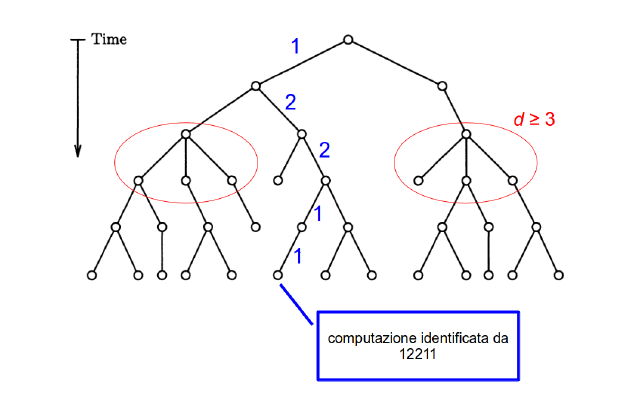
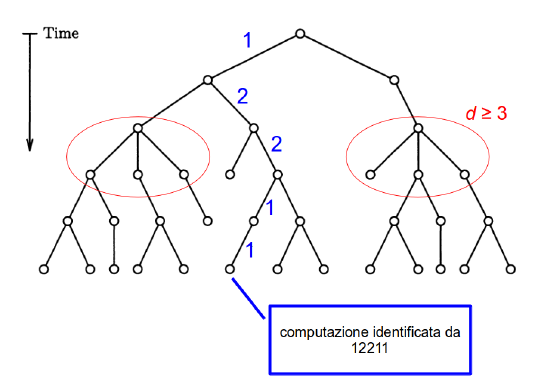
fixes

diff --git a/3-Tempo_e_spazio.tex b/3-Tempo_e_spazio.tex
@@ -65,6 +65,7 @@ $\co C = \{ \overline{L} : L \in C \}$
 
 
 \subsection{Teorema: il tempo é limitato inferiormente dall'input}
+\label{teorema:tempo_limitato_inferiormente_dall_input}
 {$f(n) = \Omega(n)$} \\
 O, equivalentemente: \\
 {$n = O(f(n))$}
@@ -74,6 +75,7 @@ Se la codifica dell'input é \textit{ragionevole}, allora la macchina di Turing 
 
 
 \subsection{Teorema: lo spazio é limitato superiormente dal tempo}
+\label{teorema:spazio_limitato_superiormente_dal_tempo}
 {$g(n) = O(f(n))$}
 \begin{proof}
 Supponiamo che una macchina $M$ a 1 nastro operi in tempo $f(n)$ e che a ogni passo scriva sul nastro e sposti la testina a destra. \\
@@ -83,103 +85,3 @@ Qualsiasi altra macchina che operi in tempo $f(n)$ avrá eseguito dei passi sovr
 \subsubsection{Corollario: $\TIME(f(n)) \subseteq \SPACE(f(n))$}
 \subsubsection{Corollario: $\P \subseteq \PSPACE$}
 Qualunque linguaggio che puó essere deciso in tempo $f(n)$ puó essere deciso anche in spazio $f(n)$.
-
-
-\subsection{Teorema: Terminazione delle MdT space bounded}
-Se una MdT $M$ opera in spazio $g(n)$, allora esiste una MdT $M'$ che opera in spazio $O(g(n))$ e termina per ogni input entro $O(c^{g(n)})$ passi.
-\footnote{Questo teorema presuppone il teorema dello speedup multinastro (\ref{teorema:speedup_multinastro})}
-\begin{proof}
-$M' = (M_1, M_2)$ é la concatenazione di due macchine, e utilizza un nastro aggiuntivo. \\
-$M_1$ scrive sul nastro aggiuntivo una stringa che codifica la configurazione di $M$, fatta in questo modo: \\
-\[[\triangleright, q, \sqcap, \dots, \sqcap, 1, \dots, 1]\]
-\begin{itemize}
-	\item Il primo simbolo codifica lo stato corrente della macchina $M$ utilizzando $|Q|$ nuovi simboli.
-	\item I successivi $g(n)$ simboli $\sqcap$ codificano il contenuto del nastro di $M$, utilizzando i $|\Sigma|$ simboli dell'alfabeto di $M$.
-	\item Gli ultimi $g(n)$ simboli codificano la posizione della testina di $M$, rappresentata in unario tra le sue $g(n)$ posizioni possibili.
-\end{itemize}
-La macchina $M_1$ é simile a $M_g$, perché rappresenta due volte $g(n)$ in unario: una prima volta con $\sqcap^{g(n)}$ e una seconda con $1^{g(n)}$. \\
-Lo spazio utilizzato é $O(g(n))$. \\
-
-$M_2$ legge la configurazione di $M$ e utilizza gli altri nastri per simularla. \\
-Il nastro con la configurazione viene trattato come un contatore, che viene incrementato dopo ogni simulazione. \\
-Occorre solo fare attenzione al fatto che la base non é sempre la stessa:
-\begin{itemize}
-	\item La prima cella del contatore puó assumere $|Q|$ valori.
-	\item Le successive $g(n)$ celle del contatore possono assumere $|\Sigma|$ valori.
-	\item Le ultime $g(n)$ celle del contatore sono in unario.
-\end{itemize}
-Se la simulazione di $M$ termina, allora anche $M_2$ termina. \\
-Se invece la simulazione non termina, il contatore prima o poi esaurirá le configurazioni possibili: a quel punto, faremo terminare $M_2$ anche se $M$ non termina. \\
-Il massimo numero di configurazioni possibili é $|Q| \cdot |\Sigma|^{g(n)} \cdot {g(n)} = O(c^{g(n)})$.
-\end{proof}
-Questo teorema ci mostra come forzare la terminazione di una MdT che opera in spazio limitato.
-\subsubsection{Corollario: $\SPACE(g(n)) \subseteq \TIME(c^{g(n)})$}
-\subsubsection{Corollario: $\PSPACE \subseteq \EXP$}
-
-\subsection{Teorema: $\TIME(f(n)) \subseteq \NTIME(f(n))$}
-\begin{proof}
-Le macchine di Turing deterministiche sono un caso particolare di quelle non deterministiche, in cui la relazione di transizione $\Delta$ associa a ogni coppia in $Q \times \Sigma$ una sola tripla di $Q \times \Sigma \times \{\leftarrow, \rightarrow, -\}$.
-\end{proof}
-\subsubsection{Corollario: $\P \subseteq \NP$}
-\subsubsection{Corollario: $\EXP \subseteq \NEXP$}
-
-
-\subsection{Teorema: $\NTIME(f(n)) \subseteq \bigcup_{c>1} \TIME(c^{f(n)})$}
-\label{theorem:non_deterministic_to_deterministic}
-Data una MdT non deterministica $N$ che decide $L$ e opera in tempo $f(n)$. \\
-Allora esiste una MdT deterministica $M$ che decide $L$ e opera in tempo $O(c^{f(n)})$.
-\begin{figure}[h!]
-	\caption{\small Albero di computazione di una MdT non deterministica.}
-	\centering
-	\label{fig:albero_computazione}
-	\includegraphics[width=0.8\textwidth]{albero_computazione.png}
-\end{figure}
-\begin{proof}
-	Simuliamo $N$ con una MdT deterministica $M$. \\
-	Possiamo vedere la computazione di $N$ come un albero di altezza $f(n)$ (figura \ref{fig:albero_computazione}). \\
-	Ogni passo corrisponde a una \textit{scelta} tra al piú $d$ possibilitá. \\
-	Ogni sequenza di $t$ passi corrisponde a una sequenza di $t$ scelte. \\
-	Codifichiamo quindi un run con una stringa di $t$ numeri da $1$ a $d$. \\
-	$M$ tiene su un nastro la stringa che codifica una sequenza di $t$ scelte. \\
-	Per una sequenza di $t$ passi, $M$ simula le transizioni che avrebbe fatto $N$. \\
-	Poi incrementa la stringa e ripete la simulazione. \\
-	In questo modo esplora tutti i possibili run di $N$. \\
-	$M$ ha bisogno di un altro nastro per conservare sempre l'input $x$ e altri $k$ nastri per simulare quelli di $N$. \\
-	Se la simulazione di un run termina in $"yes"$, $M$ accetta. \\
-	Se tutte le simulazioni terminano in $"no"$, $M$ rifiuta. \\
-	Il numero di possibili run é $\sum_{i=1}^{f(n)} d^i $. \\	
-	Il tempo di una simulazione é $f(n)$, cioé quello che impiega $N$. \\
-	$f(n) \cdot \sum_{i=1}^{f(n)} d^i = O(d^{f(n)})$.
-\end{proof}
-Vedremo che invece il guadagno in spazio di una macchina non deterministica rispetto a una deterministica é limitato.
-\subsubsection{Corollario: $\NP \subseteq \EXP$}
-
-
-\subsection{Proposizione: chiusura delle classi di complessitá deterministiche rispetto al complemento}
-Se $C$ é una classe di complessitá deterministica, allora $\co C = C$
-\begin{proof}
-Sia $L \in C$ e sia $M$ una macchina di Turing che decide $L$ e opera in tempo $f(n)$ e spazio $g(n)$. \\
-Allora possiamo costruire una macchina $M'$ che decide $\overline{L}$ e opera in tempo $f(n)$ e spazio $g(n)$, semplicemente invertendo gli stati $"yes"$ e $"no"$  di $M$. \\
-\end{proof}
-
-\subsubsection*{Perché non é possibile fare lo stesso ragionamento per le classi non deterministiche?}
-Con una macchina non deterministica $N$ non basta invertire gli stati terminali. \\
-Quello che vorremmo é una macchina $N'$ che accetta $\overline{L}$ perché:
-\begin{itemize}
-\item $x \in \overline{L}$ sse $\exists$ un run di $N'$ che accetta $x$.
-\item $x \notin \overline{L}$ sse $\forall$ run di $N'$, il run non accetta $x$.
-\end{itemize}
-Invertendo gli stati $"yes$ e $"no"$ di $N$ non si otterrebbe una macchina che accetta il complemento del linguaggio. \\ 
-Invertire $"yes"$ e $"no"$ porta una macchina che accetta $x$ se un solo run di $N$ lo rifiutava. 
-\textbf{Un input accettato da una macchina non deterministica puó essere rifiutato da un run}, e quindi accettato anche dalla nuova macchina.
-
-\subsubsection*{}
-Vedremo che é possibile dimostrare la chiusura delle classi di complessitá di spazio non deterministiche rispetto al complemento. \\
-Per quanto riguarda le classi di complessitá di tempo non deterministiche, invece, il problema è aperto. \\
-
-\subsection{Domande aperte}
-\begin{itemize}
-    \item $\P = \NP$?
-    \item $\NP = \co\NP$?
-    \item $\NP = \PSPACE$?
-\end{itemize}

diff --git a/5_Relazioni_tra_classi_di_complessita.tex b/5_Relazioni_tra_classi_di_complessita.tex
@@ -1,0 +1,106 @@
+\section{Relazioni tra classi di complessità}
+Ora che non siamo piú limitati a MdT precise, con input e output e con un solo nastro, e che possiamo usare la notazione asintotica, possiamo confrontare le classi di complessitá simulando le macchine di Turing tra loro. \\
+
+\subsection{Teorema: Terminazione delle MdT space bounded}
+Se una MdT $M$ opera in spazio $g(n)$, allora esiste una MdT $M'$ che opera in spazio $O(g(n))$ e termina per ogni input entro $O(c^{g(n)})$ passi.
+\begin{proof}
+$M' = (M_1, M_2)$ é la concatenazione di due macchine, e utilizza un nastro aggiuntivo. \\
+$M_1$ scrive sul nastro aggiuntivo una stringa che codifica la configurazione di $M$, fatta in questo modo: \\
+\[[\triangleright, q, \sqcap, \dots, \sqcap, 1, \dots, 1]\]
+\begin{itemize}
+	\item Il primo simbolo codifica lo stato corrente della macchina $M$ utilizzando $|Q|$ nuovi simboli.
+	\item I successivi $g(n)$ simboli $\sqcap$ codificano il contenuto del nastro di $M$, utilizzando i $|\Sigma|$ simboli dell'alfabeto di $M$.
+	\item Gli ultimi $g(n)$ simboli codificano la posizione della testina di $M$, rappresentata in unario tra le sue $g(n)$ posizioni possibili.
+\end{itemize}
+La macchina $M_1$ é simile a $M_g$, perché rappresenta due volte $g(n)$ in unario: una prima volta con $\sqcap^{g(n)}$ e una seconda con $1^{g(n)}$. \\
+Lo spazio utilizzato é $O(g(n))$. \\
+
+$M_2$ legge la configurazione di $M$ e utilizza gli altri nastri per simularla. \\
+Il nastro con la configurazione viene trattato come un contatore, che viene incrementato dopo ogni simulazione. \\
+Occorre solo fare attenzione al fatto che la base non é sempre la stessa:
+\begin{itemize}
+	\item La prima cella del contatore puó assumere $|Q|$ valori.
+	\item Le successive $g(n)$ celle del contatore possono assumere $|\Sigma|$ valori.
+	\item Le ultime $g(n)$ celle del contatore sono in unario.
+\end{itemize}
+Se la simulazione di $M$ termina, allora anche $M_2$ termina. \\
+Se invece la simulazione non termina, il contatore prima o poi esaurirá le configurazioni possibili: a quel punto, faremo terminare $M_2$ anche se $M$ non termina. \\
+Il massimo numero di configurazioni possibili é $|Q| \cdot |\Sigma|^{g(n)} \cdot {g(n)} = O(c^{g(n)})$.
+\end{proof}
+Questo teorema ci mostra come forzare la terminazione di una MdT che opera in spazio limitato.
+\subsubsection{Corollario: $\SPACE(g(n)) \subseteq \TIME(c^{g(n)})$}
+\subsubsection{Corollario: $\PSPACE \subseteq \EXP$}
+
+\subsection{Teorema: simulazione di una MdT deterministica con una MdT non deterministica in tempo lineare}
+\begin{proof}
+Le macchine di Turing deterministiche sono un caso particolare di quelle non deterministiche, in cui la relazione di transizione $\Delta$ associa a ogni coppia in $Q \times \Sigma$ una sola tripla di $Q \times \Sigma \times \{\leftarrow, \rightarrow, -\}$.
+\end{proof}
+\subsubsection{Corollario: $\TIME(f(n)) \subseteq \NTIME(f(n))$}
+\subsubsection{Corollario: $\P \subseteq \NP$}
+\subsubsection{Corollario: $\EXP \subseteq \NEXP$}
+
+
+\subsection{Teorema: simulazione di una MdT non deterministica con una MdT deterministica in tempo esponenziale}
+\label{theorem:non_deterministic_to_deterministic}
+Data una MdT non deterministica $N$ che decide $L$ e opera in tempo $f(n)$. \\
+Allora esiste una MdT deterministica $M$ che decide $L$ e opera in tempo $O(c^{f(n)})$.
+\begin{figure}[h!]
+	\caption{\small Albero di computazione di una MdT non deterministica.}
+	\centering
+	\label{fig:albero_computazione}
+	\includegraphics[width=0.8\textwidth]{albero_computazione.png}
+\end{figure}
+\begin{proof}
+	Simuliamo $N$ con una MdT deterministica $M$. \\
+	Possiamo vedere la computazione di $N$ come un albero di altezza $f(n)$ (figura \ref{fig:albero_computazione}). \\
+	Ogni passo corrisponde a una \textit{scelta} tra al piú $d$ possibilitá. \\
+	Ogni sequenza di $t$ passi corrisponde a una sequenza di $t$ scelte. \\
+	Codifichiamo quindi un run con una stringa di $t$ numeri da $1$ a $d$. \\
+	$M$ tiene su un nastro una stringa che codifica un run, partendo da quella con tutti $1$. \\
+	Per quel run, $M$ simula le transizioni che avrebbe eseguito $N$. \\
+	Poi incrementa la stringa che codifica il run e ripete la simulazione. \\
+	In questo modo esplora tutti i possibili run di $N$. \\
+	$M$ ha bisogno di un altro nastro per conservare sempre l'input $x$ e altri $k$ nastri per simulare quelli di $N$. (teorema: \ref{teorema:speedup_multinastro}) \\
+	Se la simulazione di un run termina in $"yes"$, $M$ accetta. \\
+	Se tutte le simulazioni terminano in $"no"$, $M$ rifiuta. \\
+	Il numero di possibili run é $\sum_{i=1}^{f(n)} d^i $. \\	
+	Il tempo di una simulazione é $f(n)$, cioé quello che impiega $N$. \\
+	$f(n) \cdot \sum_{i=1}^{f(n)} d^i = O(d^{f(n)})$.
+\end{proof}
+Vedremo che invece il guadagno in spazio di una macchina non deterministica rispetto a una deterministica é limitato.
+\subsubsection{Corollario: $\NTIME(f(n)) \subseteq \bigcup_{c>1} \TIME(c^{f(n)})$}
+\subsubsection{Corollario: $\NP \subseteq \EXP$}
+
+
+\subsection{Proposizione: chiusura delle classi di complessitá deterministiche rispetto al complemento}
+Se $C$ é una classe di complessitá deterministica, allora $\co C = C$
+\begin{proof}
+Sia $L \in C$ e sia $M$ una macchina di Turing che decide $L$ e opera in tempo $f(n)$ e spazio $g(n)$. \\
+Allora possiamo costruire una macchina $M'$ che decide $\overline{L}$ e opera in tempo $f(n)$ e spazio $g(n)$, semplicemente invertendo gli stati $"yes"$ e $"no"$  di $M$. \\
+\end{proof}
+\subsubsection{Corollario: $\co \TIME(f(n)) = \TIME(f(n))$}
+\subsubsection{Corollario: $\co \SPACE(f(n)) = \SPACE(f(n))$}
+\subsubsection{Corollario: $\co \P = \P$}
+\subsubsection{Corollario: $\co \EXP = \EXP$}
+\subsubsection{Corollario: $\co \L = \L$}
+\subsubsection{Corollario: $\co \PSPACE = \PSPACE$}
+\subsubsection{Perché non é possibile fare lo stesso ragionamento per le classi non deterministiche}
+Con una macchina non deterministica $N$ non basta invertire gli stati terminali. \\
+Quello che vorremmo é una macchina $N'$ che accetta $\overline{L}$ perché:
+\begin{itemize}
+\item $x \in \overline{L}$ sse $\exists$ un run di $N'$ che accetta $x$.
+\item $x \notin \overline{L}$ sse $\forall$ run di $N'$, il run non accetta $x$.
+\end{itemize}
+Invertendo gli stati $"yes$ e $"no"$ di $N$ non si otterrebbe una macchina che accetta il complemento del linguaggio. \\ 
+Invertire $"yes"$ e $"no"$ porta una macchina che accetta $x$ se un solo run di $N$ lo rifiutava. 
+\textbf{Un input accettato da una macchina non deterministica puó essere rifiutato da un run}, e quindi accettato anche dalla nuova macchina.
+\subsubsection*{}
+Vedremo che é possibile dimostrare la chiusura delle classi di complessitá di spazio non deterministiche rispetto al complemento. \\
+Per quanto riguarda le classi di complessitá di tempo non deterministiche, invece, il problema è aperto. \\
+
+\subsection{Domande aperte}
+\begin{itemize}
+    \item $\P = \NP$?
+    \item $\NP = \co\NP$?
+    \item $\NP = \PSPACE$?
+\end{itemize}

diff --git a/4-Misure_precise.tex b/4-Misure_precise.tex
@@ -48,9 +48,9 @@ Per ogni macchina di Turing con $k$ nastri $M$ che opera in tempo $f(n)$, esiste
 \begin{proof}
 M' copia l'input sul secondo nastro, simula M sui k nastri centrali, infine, se M ha un output, lo copia sull'ultimo nastro. \\
 Il costo dell copia dell'input sul secondo nastro é $O(n)$. \\
-Poiché sappiamo che $f(n)$ é limitato inferiormente da $n$, possiamo dire che il costo della copia dell'input é $O(f(n))$. \\
+Poiché sappiamo che $f(n)$ é limitato inferiormente da $n$ (teroema \ref{teorema:tempo_limitato_inferiormente_dall_input}), possiamo dire che il costo della copia dell'input é $O(f(n))$. \\
 Il costo della simulazione di M é $O(f(n))$. \\
-Poiché sappiamo che lo spazio é limitato superiormente da $f(n)$, il costo della copia dell'output sull'ultimo nastro é $O(f(n))$, . \\
+Poiché sappiamo che lo spazio é limitato superiormente da $f(n)$ (teorema \ref{teorema:spazio_limitato_superiormente_dal_tempo}), il costo della copia dell'output sull'ultimo nastro é $O(f(n))$, . \\
 Quindi il costo complessivo é $O(f(n))$.
 \end{proof}
 Di conseguenza, le macchine di Turing con input e output sono equipotenti a quelle normali.
@@ -62,7 +62,7 @@ Se una MdT $M$ \textit{decide} $L$ in tempo $f(n)$, ed $f$ é una funzione \text
 \begin{proof}
 Costruiamo $M'$ come una concatenazione di due macchine di Turing, tenendo i loro nastri separati. \\
 La prima MdT é $M_f$, cioé la macchina con input e output che calcola la funzione propria $f$. \\
-$M_f$ Scrive $\sqcap^{f(n)}$ sul nastro $k$  impiegando sempre tempo $O(n + f(n)) = O(f(n))$. \\
+$M_f$ Scrive $\sqcap^{f(n)}$ sul nastro $k$  impiegando sempre tempo $O(n + f(n)) = O(f(n))$. (teorema \ref{teorema:tempo_limitato_inferiormente_dall_input})\\
 Quando termina, si passa a una macchina $M_t$, che simula $M$ sul proprio set di nastri $\{k+1, \dots, 2k\}$, ma a ogni passo sposta anche la testina sul nastro $k$ verso destra. \\
 Sappiamo che $M$, e quindi anche $M_t$, termina entro $f(n)$ passi. Se dovesse terminare prima, basta aspettare che la testina sull'ultimo nastro finisca di scorrere tutti i $\sqcap$, impiegando esattamente $f(n)$ passi. \\
 In totale, quindi, $M' = (M_f, M_t)$ impiega sempre $O(f(n)) + f(n) = O(f(n))$ passi.

diff --git a/teoremi/Linear_speedup.tex b/teoremi/Linear_speedup.tex
@@ -28,7 +28,7 @@ Il numero di stati richiesti per ricordare lo stato di $M$ e la posizione della 
 
 Se $M$ é nello stato $q$ e la testina del suo nastro $i$ si trova sulla cella $l_i$, allora chiamiamo ${l'}_i = (l_i \mod m)$ e diciamo che $M'$ é nello stato $q_{l'_1, \ldots, l'_k}$. .
 
-Simulando $m$ passi di $M$, il cursore di un nastro di $M'$ potrebbe finire in una delle due caselle adiacenti a quella attuale, e non oltre (perché lo spazio é limitato superiormente dal tempo).\\
+Simulando $m$ passi di $M$, il cursore di un nastro di $M'$ potrebbe finire in una delle due caselle adiacenti a quella attuale, e non oltre (teorema \ref{teorema:spazio_limitato_superiormente_dal_tempo}).\\
 Per questo, si leggono i simboli a sinistra e a destra del cursore (1 passo a sinistra, 2 a destra e 1 a sinistra tornando alla posizione originaria: 4 in totale). \\
 $\delta'$ é definita in modo da applicare direttamente le modifiche al blocco centrale e, eventualmente, uno dei due adiacenti. Questo richiede al massimo 2 passi. \\
 

diff --git a/teoremi/Speedup_multinastro.tex b/teoremi/Speedup_multinastro.tex
@@ -63,7 +63,7 @@ Ogni passo di $M$ richiede due step:
 		\begin{itemize}
 			\item Servono stati che ricordano lo stato originale di $M$ e ogni simbolo letto finora. Per ogni stato $q \in Q$, aggiungo a $Q'$ tutti gli stati $q_{\sigma_1}; q_{\sigma_1, \sigma_2}; \dots; q_{\sigma_1, \dots, \sigma_k}$, per tutte le combinazioni di lunghezza minore o uguale a $k$ di simboli $\sigma_i \in \Sigma$. 
 			\item In totale, servono $|Q| \cdot |\Sigma|^{1 + \dots + k} = |Q| \cdot |\Sigma|^{k \cdot (k+1)/2}$ nuovi stati.
-			\item Il tempo	 impiegato é $O(f(n))$.
+			\item Il tempo	 impiegato é $O(f(n))$ (teorema \ref{teorema:spazio_limitato_superiormente_dal_tempo}).
 		\end{itemize}
 	\item Modifica del nastro per applicare la transizione a partire da uno stato $q_{\sigma_1,\dots,\sigma_k}$.
 		\begin{itemize}

diff --git a/main.tex b/main.tex
@@ -39,5 +39,7 @@
 \include{3-Tempo_e_spazio}
 \newpage
 \include{4-Misure_precise}
+\newpage
+\include{5_Relazioni_tra_classi_di_complessita}
 
 \end{document}
